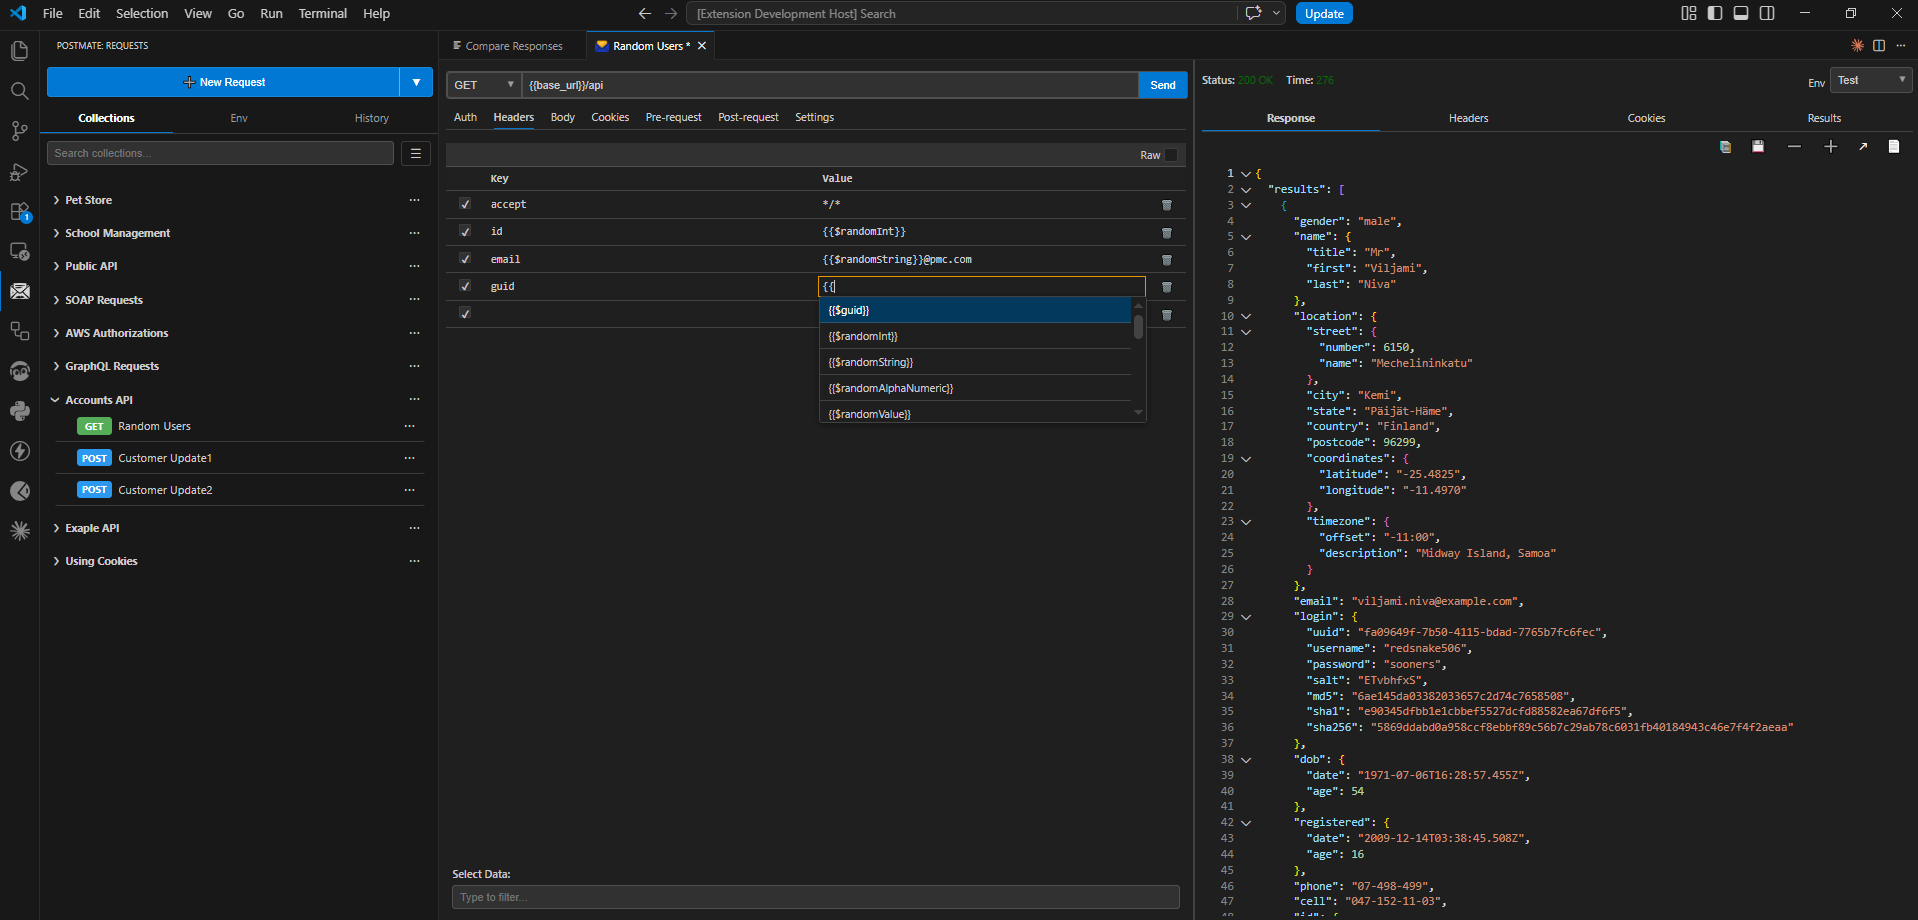
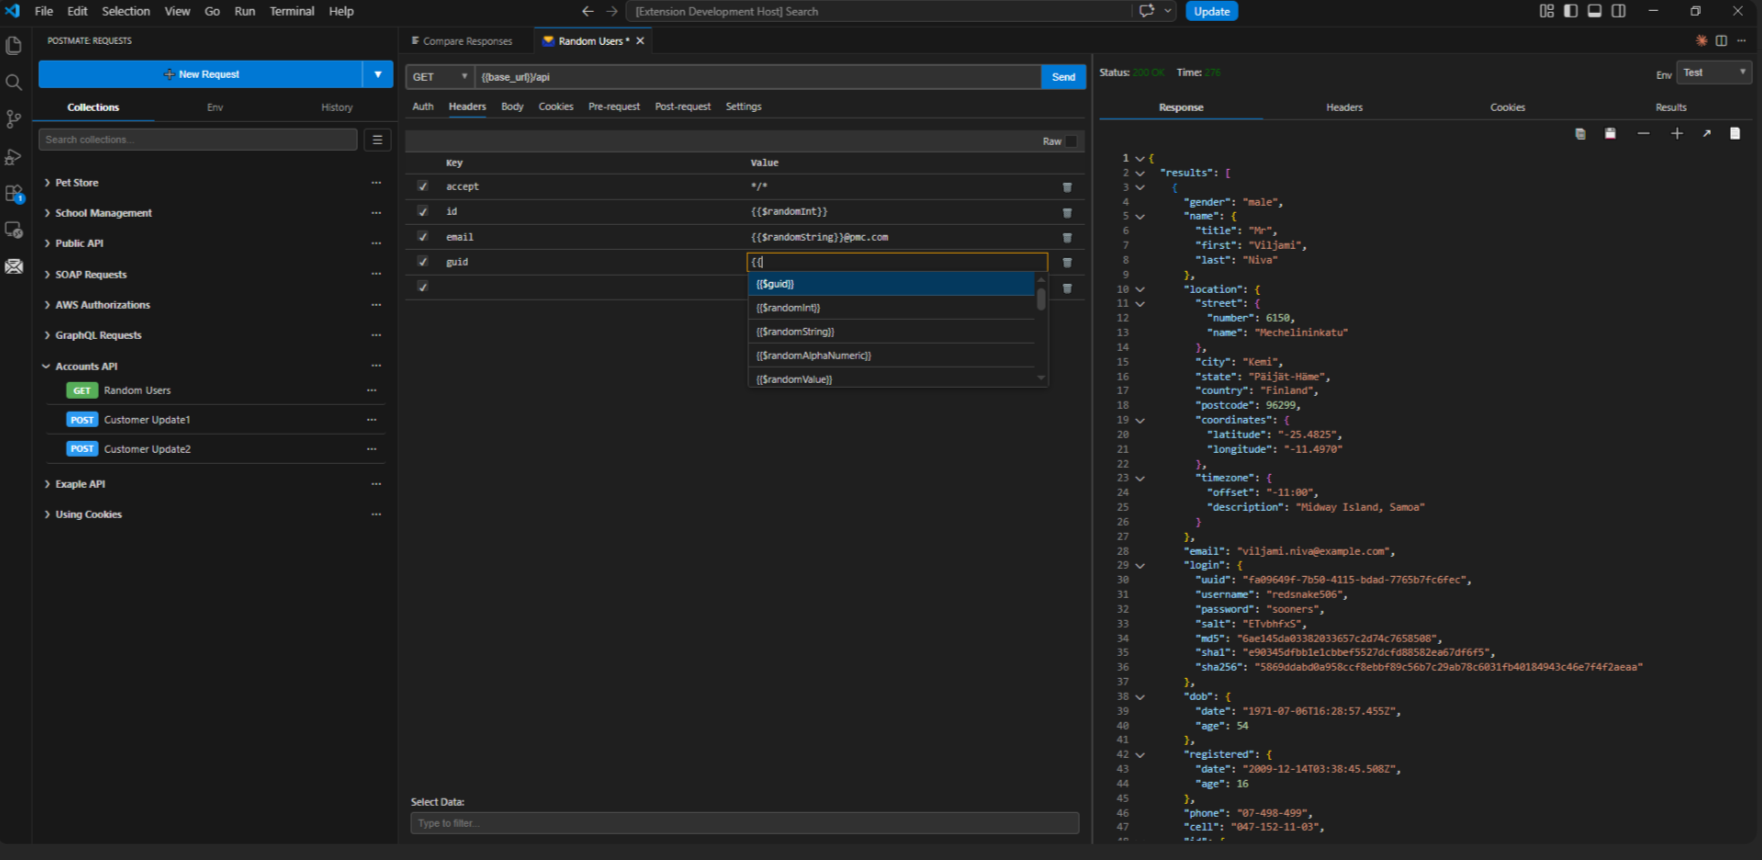
data table update

diff --git a/docs/data-driven/data-tables.md b/docs/data-driven/data-tables.md
@@ -2,37 +2,6 @@
 canonical: https://www.postmateclient.com/data-driven/data-tables
 title: Data Tables in VS Code | Postmate Client (Data-Driven API Testing)
 description: Run data-driven API testing in VS Code with Postmate Client. Create CSV data tables, attach them to environments, and parameterise requests — privacy-first, no cloud sync, no login.
-head:
-  - - meta
-    - name: description
-      content: Run data-driven API testing in VS Code with Postmate Client. Create CSV data tables, attach them to environments, and parameterise requests — privacy-first, no cloud sync, no login.
-  - - meta
-    - name: keywords
-      content: data-driven api testing, csv api testing vs code, postman alternative data driven, parameterise api requests, csv test data, api testing with csv, postmate client data tables, environment data tables
-  - - meta
-    - property: og:title
-      content: Data Tables in VS Code | Postmate Client (Data-Driven API Testing)
-  - - meta
-    - property: og:description
-      content: Run data-driven API testing in VS Code with Postmate Client. CSV data tables scoped per environment — no cloud sync, no login.
-  - - meta
-    - property: og:url
-      content: https://www.postmateclient.com/data-driven/data-tables
-  - - meta
-    - property: og:type
-      content: article
-  - - meta
-    - name: twitter:card
-      content: summary_large_image
-  - - meta
-    - name: twitter:title
-      content: Data Tables in VS Code | Postmate Client (Data-Driven API Testing)
-  - - meta
-    - name: twitter:description
-      content: Run data-driven API testing in VS Code with Postmate Client. CSV data tables scoped per environment — no cloud sync, no login.
-  - - link
-    - rel: canonical
-      href: https://www.postmateclient.com/data-driven/data-tables
 ---
 
 # Data Tables in Postmate Client (Data-Driven API Testing in VS Code)
@@ -115,12 +84,53 @@ Other CSV essentials:
 - **Header row required** — first row defines column names
 - **One row per test case** — newlines separate rows
 - **Quote anything with commas, quotes, or newlines** — `"abc, xyz"`, `"he said ""hi"""`
+- **Quoting also controls data types** — quoted values are sent as strings, unquoted numbers as numbers. See [Data Types in CSV Values](#data-types-in-csv-values-numbers-strings-and-arrays) below.
 - **No empty header cells** — every column needs a name
 - **Reserved column name** — `_dtag` is reserved for [Data Tagging](/data-driven/data-tagging)
 
 ::: tip
 Some users pair Postmate Client with the rainbow-csv VS Code extension for colour-coded CSV columns while editing. It is purely a visual aid — Postmate Client does not require any plugins to read or write data tables.
 :::
+
+## Data Types in CSV Values (Numbers, Strings, and Arrays)
+
+When you select a data row and send a request, Postmate Client infers the data type of each value from how it is written in the CSV:
+
+| Value in CSV | Sent in request body as | Type |
+|---|---|---|
+| `123` | `123` | number |
+| `"123"` | `"123"` | string |
+| `hello` | `"hello"` | string |
+| `"123,101"` | `[123, 101]` | array of numbers |
+| `"""123"",""101"""` | `["123", "101"]` | array of strings |
+
+**The rules:**
+
+- **Unquoted numeric values become numbers.** `123` is sent as the number `123`.
+- **Quoted values always stay strings.** Wrap a value in double quotes to prevent number conversion — essential for zip codes, phone numbers, and IDs with leading zeros (`"00042"` is sent as `"00042"`, not `42`).
+- **Quoted values containing commas become arrays.** `"123,101"` is sent as `[123, 101]`. Each element is type-inferred individually — quote an element (escaped as `""123""` in the raw file) to keep it a string.
+
+::: tip
+If you edit data tables in Excel or Google Sheets, the escaping is handled for you. To send an array of strings, type `"123","101"` in the cell — the doubled-quote form (`"""123"",""101"""`) is written to the file automatically on save.
+:::
+
+**Example:**
+
+```csv
+email,password,studentId,studentIds
+m4@example.com,Test@123,"123","456,789"
+```
+
+produces this request body:
+
+```json
+{
+  "email": "m4@example.com",
+  "password": "Test@123",
+  "studentId": "123",
+  "studentIds": [456, 789]
+}
+```
 
 ## How to Attach a Data Table to an Environment
 
@@ -246,6 +256,7 @@ The table is immediately available to attach to any environment.
 - **Keep one table per concern** — a table per resource type (users, orders, products) is easier to maintain than one giant table covering everything.
 - **Commit tables to Git** — since they are plain CSV files, your data tables version-control naturally alongside your code. PR reviewers can see exactly what test inputs changed.
 - **Quote anything risky** — addresses, JSON snippets, full names with commas — wrap in double quotes to be safe.
+- **Quote values that must stay strings** — phone numbers, zip codes, and IDs with leading zeros should be wrapped in double quotes to prevent automatic number conversion. See [Data Types in CSV Values](#data-types-in-csv-values-numbers-strings-and-arrays).
 - **Use tags for large tables** — once a table grows past ~50 rows, add a `_dtag` column to keep the request-side dropdown manageable. See [Data Tagging](/data-driven/data-tagging).
 
 ## Frequently Asked Questions
@@ -267,6 +278,9 @@ Yes. Use the [Collection Runner](/data-driven/collection-runner) to iterate the 
 
 **Does Postmate Client support CSV files with commas inside values?**
 Yes. Standard CSV quoting rules apply — wrap any value containing a comma, quote, or newline in double quotes. See the [CSV Format Rules](#csv-format-rules) section above.
+
+**How do I keep a numeric value as a string (e.g. a zip code or ID)?**
+Wrap it in double quotes in the CSV. Unquoted `78701` is sent as the number `78701`; quoted `"78701"` is sent as the string `"78701"`. Quoted values containing commas are sent as arrays. See [Data Types in CSV Values](#data-types-in-csv-values-numbers-strings-and-arrays).
 
 **Is data-driven testing in Postmate Client free?**
 Yes. Every data-driven testing feature — unlimited data tables, environment scoping, Collection Runner, tagging — is free forever. No paid tiers.
